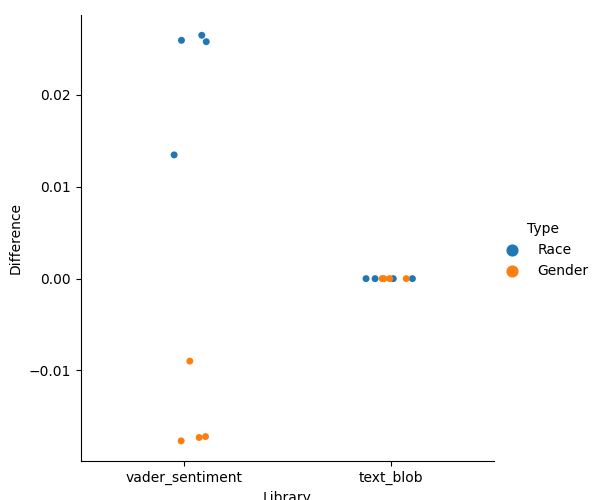
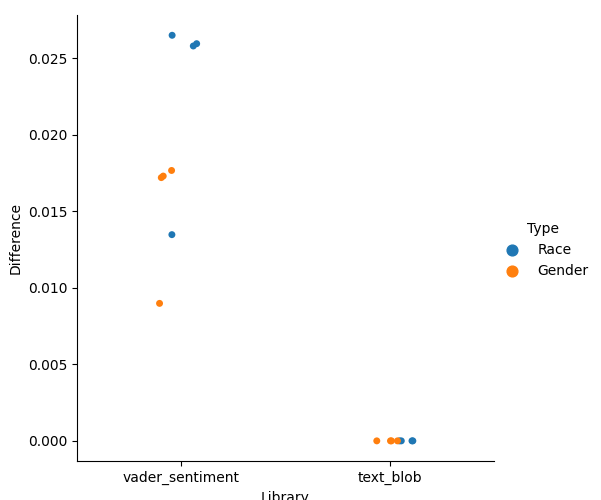
adjusted plotting logic

diff --git a/analysis.py b/analysis.py
@@ -133,7 +133,8 @@ def aggregate_racial_bias_results(data):
 	racial_bias_results.to_csv("racial_bias_results.csv")
 
 	#####
-	# Add data to list of plot frames
+	# Add data to list of plot frames; standardize "Difference" variable
+	racial_bias_results["Difference"] = racial_bias_results["Difference"].abs()
 	dataplot = pd.DataFrame(racial_bias_results)
 	dataplot["Type"] = "Race"
 	dataplot = dataplot.loc[(dataplot["Hypothesis"] != 0)]
@@ -225,7 +226,8 @@ def aggregate_gender_bias_results(data):
 	gender_bias_results.to_csv("gender_bias_results.csv")
 
 	#####
-	# Add data to list of plot frames
+	# Add data to list of plot frames; standardize "Difference" variable
+	gender_bias_results["Difference"] = gender_bias_results["Difference"].abs()
 	dataplot = pd.DataFrame(gender_bias_results)
 	dataplot["Type"] = "Gender"
 	dataplot = dataplot.loc[(dataplot["Hypothesis"] != 0)]

diff --git a/README.md b/README.md
@@ -14,11 +14,11 @@ In order to run the code yourself, make sure you follow these steps:
 ## The Files
 - **index.py** = the main script that has to be called and invokes all of the relevant functions.
 - **equity_evaluation_corpus.csv** = the file containing the test sentences from the [Equity Evaluation Corpus](https://www.svkir.com/resources/Equity-Evaluation-Corpus.zip) with adjusted column names and some redactions/additions.
-- **text_blob_library.py** = the script that returns the sentiment analysis score of the [textblob library](https://textblob.readthedocs.io/en/dev/) for each sentence.
-- **vader_sentiment_library.py** = the script that returns the sentiment analysis score of the [vaderSentiment library](https://github.com/cjhutto/vaderSentiment) for each sentence.
+- **text_blob_library.py** = the script that returns the sentiment analysis score of the [TextBlob library](https://textblob.readthedocs.io/en/dev/) for each sentence.
+- **vader_sentiment_library.py** = the script that returns the sentiment analysis score of the [VADERSentiment library](https://github.com/cjhutto/vaderSentiment) for each sentence.
 - **results.csv** = the file containing the data from equity_evaluation_corpus.csv and the scores of each library for each sentence.
 - **analysis.py** = the file that runs statistical analysis on results.csv along racial and gender lines.
 - **gender_bias_results.csv** = the file containing the results of analysis.py on gender bias in the libraries.
 - **racial_bias_results.csv** = the file containing the results of analysis.py on racial bias in the libraries.
-- **mean_differences.png** = the file containing the plot of the difference between  the  mean  predicted  scores  of  one  cluster  of sentence  pairs
+- **mean_differences.png** = the file containing the plot of the differences between the mean predicted scores of clusters of sentence pairs.
 - **requirements.txt** = the file containing all of the dependencies.
